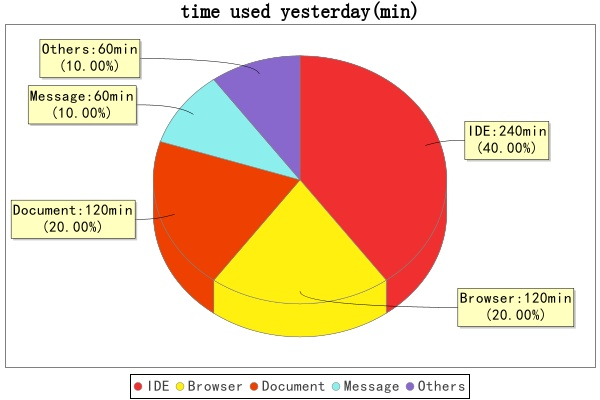
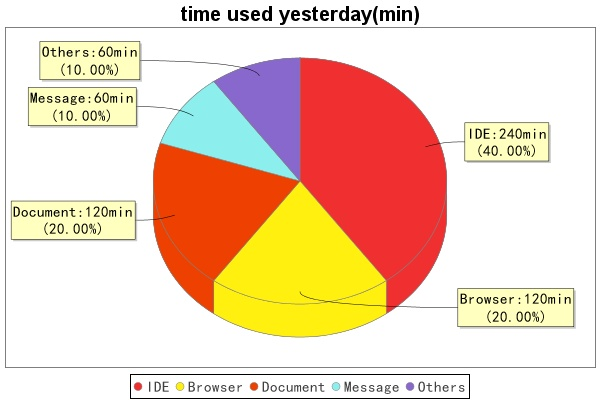
changed borderline color of inputGraph refactor keyboardGraph > inputGraph

diff --git a/src/io/github/twt233/inputGraph.java b/src/io/github/twt233/inputGraph.java
@@ -5,7 +5,6 @@ import com.google.gson.reflect.TypeToken;
 import com.zzw.data.Input;
 import org.jfree.chart.ChartFactory;
 import org.jfree.chart.JFreeChart;
-import org.jfree.chart.plot.CategoryPlot;
 import org.jfree.chart.plot.PlotOrientation;
 import org.jfree.chart.renderer.category.CategoryItemRenderer;
 import org.jfree.data.category.CategoryDataset;
@@ -19,12 +18,12 @@ import java.text.SimpleDateFormat;
 import java.util.ArrayList;
 import java.util.List;
 
-public class keyboardGraph {
+public class inputGraph {
 
     private CategoryDataset dataSet;
     private JFreeChart chart;
 
-    public keyboardGraph(String filePath) throws IOException {
+    public inputGraph(String filePath) throws IOException {
         StringBuilder json = new StringBuilder();
         BufferedReader buf = new BufferedReader(new FileReader(filePath));
         String temp;
@@ -45,10 +44,9 @@ public class keyboardGraph {
                 dataSet, PlotOrientation.VERTICAL, true, true, false);
         CategoryItemRenderer render = chart.getCategoryPlot().getRenderer();
 
-        // GRP ADD
-        CategoryPlot myPlot = (CategoryPlot)chart.getPlot();
-        myPlot.setBackgroundPaint(Color.WHITE);
-        // chart.setBackgroundPaint(new Color(0xffffff));
+        chart.getPlot().setBackgroundPaint(Color.WHITE);
+        chart.setBackgroundPaint(Color.WHITE);
+        chart.getPlot().setOutlinePaint(Color.WHITE);
 
         render.setSeriesPaint(0, new Color(0xDD9225));
         render.setSeriesPaint(1, new Color(0x21598F));

diff --git a/src/com/grp/Main.java b/src/com/grp/Main.java
@@ -1,8 +1,8 @@
 package com.grp;
 
 import grp.PerformanceIllustration;
+import io.github.twt233.inputGraph;
 import org.jfree.chart.JFreeChart;
-import io.github.twt233.keyboardGraph;
 import xjm.Performpiechart;
 
 public class Main
@@ -14,7 +14,7 @@ public class Main
         per_chart2file.toPNG(ChartToFile.Part.PERFORMANCE, 1600, 400);
         // 生成Performance的图表并且写出到文件
 
-        keyboardGraph keyboardChart = new keyboardGraph("statistics/data/20190517/input.json");
+        inputGraph keyboardChart = new inputGraph("statistics/data/20190517/input.json");
         // keyboardChart.main(null);
         JFreeChart key_chart = keyboardChart.getChart();
         ChartToFile key_chart2file = new ChartToFile(key_chart);
